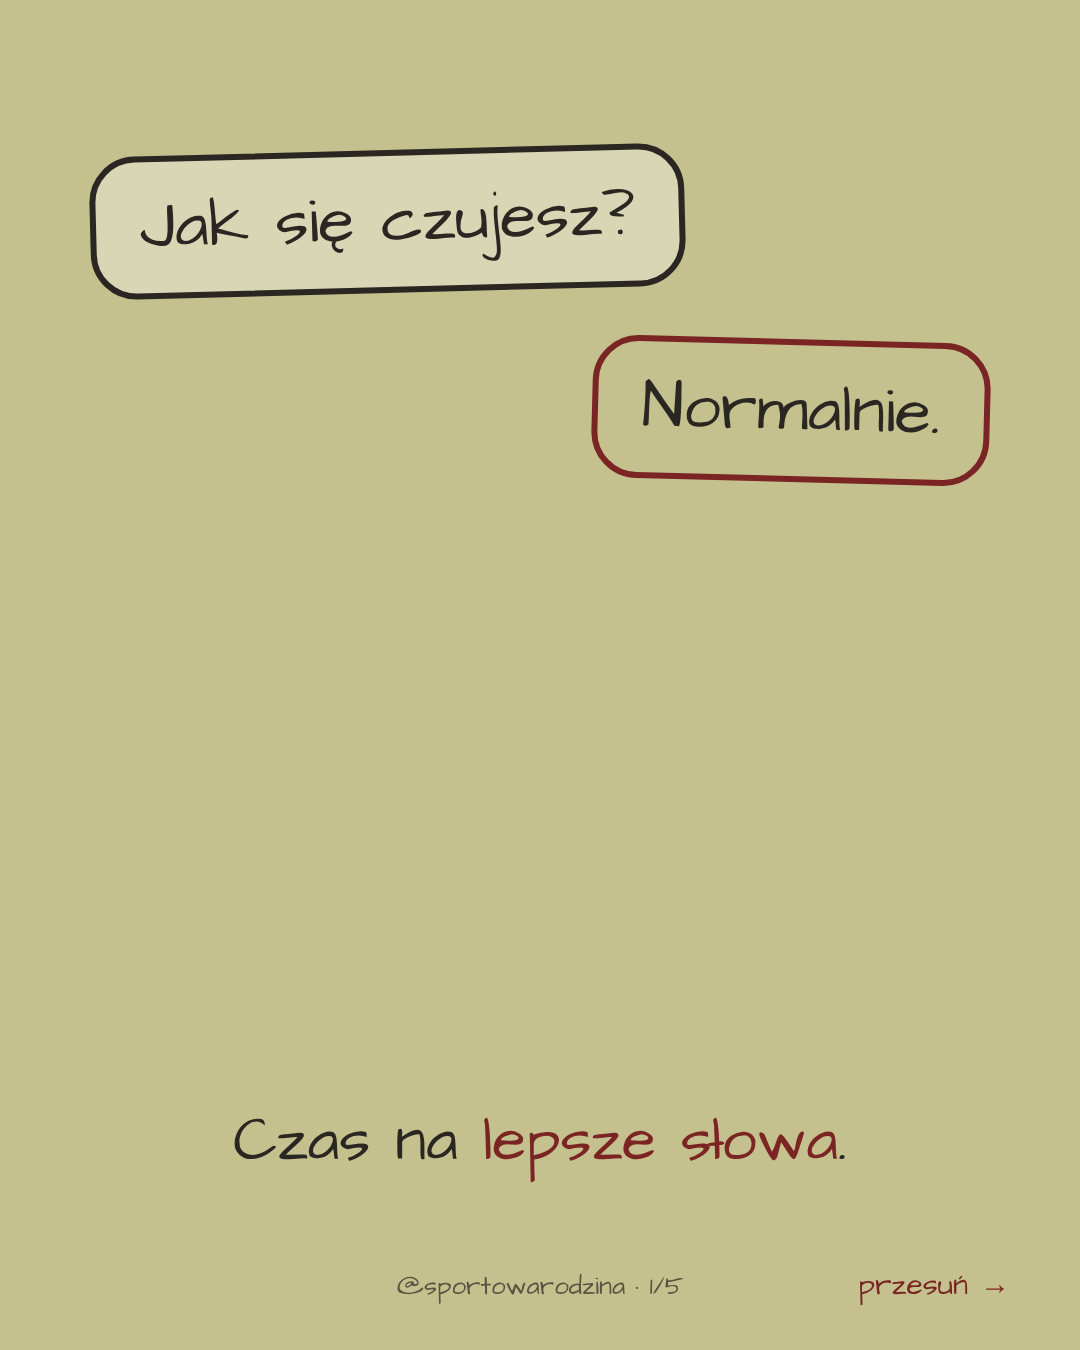
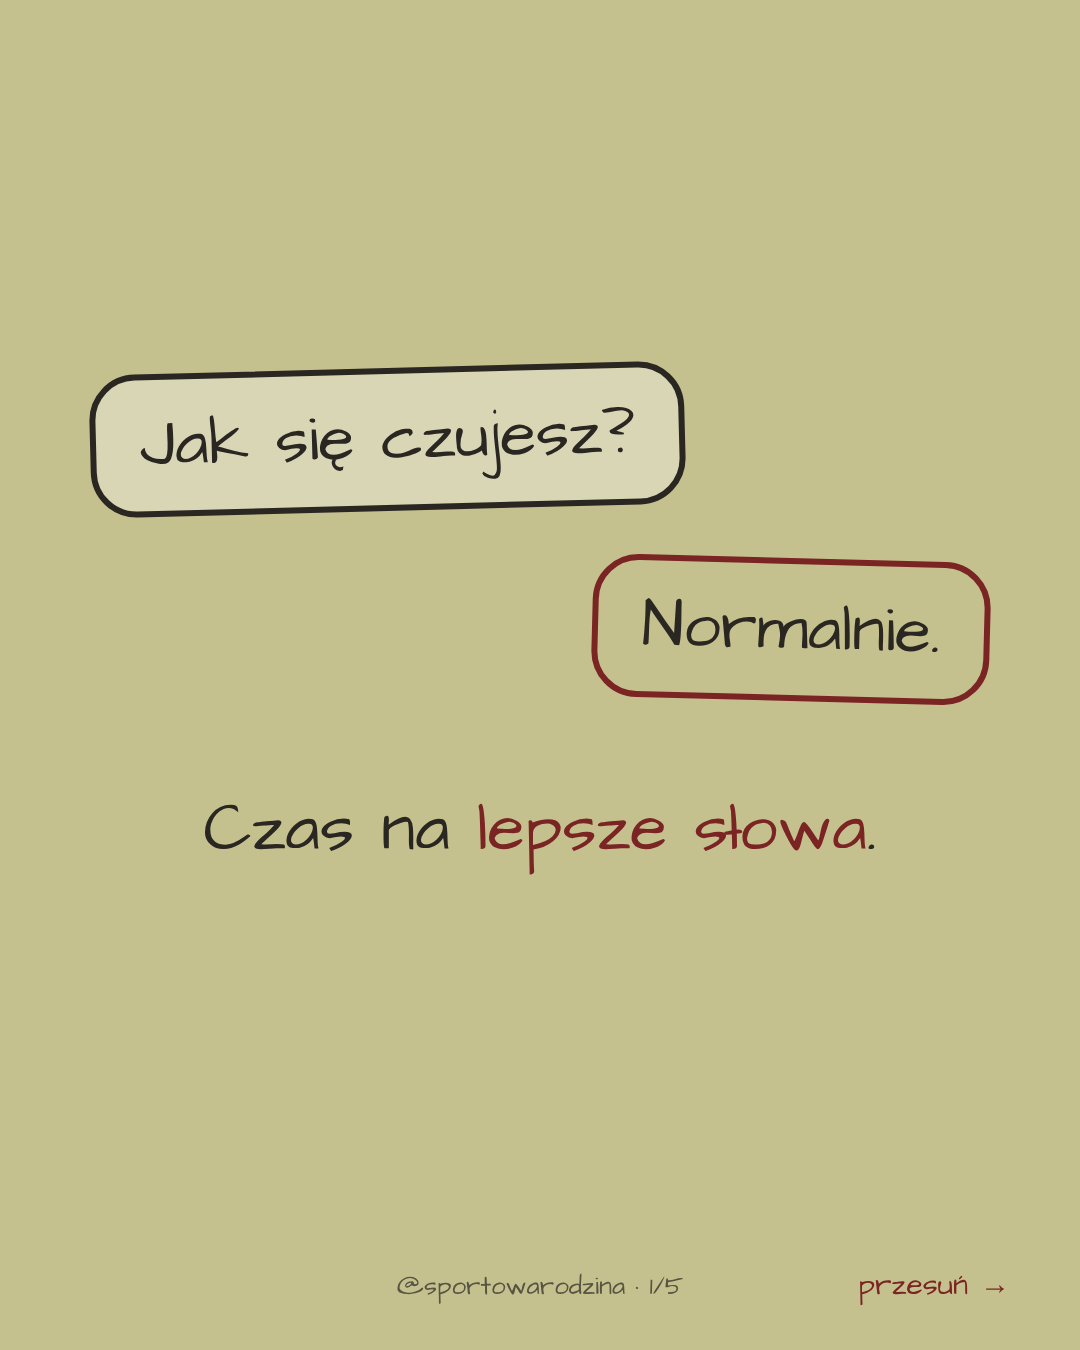
Rodzina: tighter text/symbol spacing, symbols matched to topics
Claude-Session: https://claude.ai/code/session_01A5PTvWpyS7iEo6fG2kmJPS

diff --git a/tools/family.js b/tools/family.js
@@ -18,23 +18,28 @@ const total = spec.slides.length;
 const foot = i => `<div class="c" style="bottom:46px;font-size:26px;opacity:.7">@sportowarodzina${total > 1 ? ' · ' + (i + 1) + '/' + total : ''}</div>`;
 const R = (d, w = 7, c) => `<path d="${d}" fill="none" stroke="${c || INK}" stroke-width="${w}" stroke-linecap="round" stroke-linejoin="round"/>`;
 const ICONS = {
+  hug: () => `<circle cx="120" cy="70" r="30" fill="none" stroke="${INK}" stroke-width="7"/>` + R('M120,100 C85,105 80,150 85,200 L90,270') + R('M120,100 C150,105 160,140 158,175') + R('M150,270 L152,215') +
+    `<circle cx="195" cy="130" r="24" fill="none" stroke="${ACC}" stroke-width="7"/>` + R('M195,154 C175,160 172,200 175,230 L178,270', 7, ACC) + R('M195,154 C215,160 222,195 220,230 L218,270', 7, ACC) +
+    R('M88,140 C120,175 170,185 215,165', 7) + R('M215,190 C190,182 172,170 160,150', 6, ACC),
+  growth: () => R('M150,30 L150,275', 7) + [250, 205, 160, 115, 72].map((y, k) => R(`M150,${y} L${k === 4 ? 225 : 190},${y}`, k === 4 ? 8 : 5, k === 4 ? ACC : INK)).join('') +
+    `<text x="200" y="208" font-family="AD" font-size="26" fill="${INK}">wrzesień</text><text x="235" y="80" font-family="AD" font-size="32" fill="${ACC}">dziś</text>` +
+    `<circle cx="95" cy="95" r="22" fill="none" stroke="${INK}" stroke-width="6"/>` + R('M95,117 L95,200 M95,140 L70,175 M95,140 L125,120 M95,200 L78,270 M95,200 L112,270', 6),
   heart: () => R('M150,250 C60,190 30,120 80,85 C120,58 150,95 150,110 C150,95 180,58 220,85 C270,120 240,190 150,250 Z', 8, ACC) + R('M95,110 C100,98 110,92 120,92', 5, ACC),
   ball: () => R('M150,60 C210,62 245,110 243,155 C240,210 195,248 148,246 C95,244 57,200 58,152 C60,100 100,60 150,60 Z') + R('M150,110 L185,135 L172,178 L128,178 L115,135 Z', 6) + R('M150,110 L150,62 M185,135 L238,128 M172,178 L200,232 M128,178 L100,232 M115,135 L62,128', 5),
   moon: () => R('M190,70 C130,80 100,140 120,195 C140,245 205,255 245,220 C190,225 150,180 160,130 C165,100 175,82 190,70 Z', 8, ACC) + `<text x="200" y="110" font-family="AD" font-size="54" fill="${INK}">z</text><text x="235" y="80" font-family="AD" font-size="40" fill="${INK}">z</text><text x="262" y="56" font-family="AD" font-size="30" fill="${INK}">z</text>`,
-  triangle: () => R('M150,60 L255,240 L45,240 Z', 5) + ['M150,60', 'M255,240', 'M45,240'].map((p, k) => `<circle cx="${[150, 255, 45][k]}" cy="${[60, 240, 240][k]}" r="${k === 0 ? 34 : 30}" fill="${BG}" stroke="${k === 0 ? ACC : INK}" stroke-width="7"/>`).join('') + `<text x="150" y="72" text-anchor="middle" font-family="AD" font-size="30" fill="${ACC}">dz</text><text x="255" y="251" text-anchor="middle" font-family="AD" font-size="26" fill="${INK}">tr</text><text x="45" y="251" text-anchor="middle" font-family="AD" font-size="26" fill="${INK}">r</text>`,
-  growth: () => R('M110,50 L110,260', 7) + [230, 190, 150, 110, 75].map((y, k) => R(`M110,${y} L${k === 4 ? 200 : 160},${y}`, k === 4 ? 8 : 5, k === 4 ? ACC : INK)).join('') + R('M215,65 L240,75 L215,85', 6, ACC),
+  triangle: () => R('M150,60 L255,240 L45,240 Z', 5) + ['M150,60', 'M255,240', 'M45,240'].map((p, k) => `<circle cx="${[150, 255, 45][k]}" cy="${[60, 240, 240][k]}" r="${k === 0 ? 34 : 30}" fill="${BG}" stroke="${k === 0 ? ACC : INK}" stroke-width="7"/>`).join('') + `<text x="150" y="18" text-anchor="middle" font-family="AD" font-size="30" fill="${ACC}">dziecko</text><text x="255" y="296" text-anchor="middle" font-family="AD" font-size="28" fill="${INK}">trener</text><text x="45" y="296" text-anchor="middle" font-family="AD" font-size="28" fill="${INK}">rodzic</text>`,
 };
-const doodle = (name, size = 330) => `<svg viewBox="0 0 300 300" width="${size}" height="${size}">${ICONS[name]()}</svg>`;
+const doodle = (name, size = 330) => `<svg viewBox="-20 -10 340 320" overflow="visible" width="${size}" height="${size}">${ICONS[name]()}</svg>`;
 function slide(s, i) {
   const swipe = total > 1 ? `<div style="position:absolute;right:70px;bottom:44px;font-size:30px" class="a">przesuń →</div>` : '';
   if (s.kind === 'cover' && s.layout === 'doodle') {
-    return `<div class="c" style="top:110px;font-size:${len(s.text) < 45 ? 84 : 72}px;line-height:1.25">${hl(s.text)}</div>
-      <div style="position:absolute;left:0;right:0;bottom:170px;display:flex;justify-content:center">${doodle(s.icon, 560)}</div>${swipe}${foot(i)}`;
+    return `<div class="c" style="top:0;bottom:110px;display:flex;flex-direction:column;align-items:center;justify-content:center;gap:40px">
+      <div style="font-size:${len(s.text) < 45 ? 84 : 72}px;line-height:1.25">${hl(s.text)}</div>${doodle(s.icon, 520)}</div>${swipe}${foot(i)}`;
   }
   if (s.kind === 'cover' && s.layout === 'bubble') {
     const b = s.bubbles.map((t, k) => `<div style="align-self:${k % 2 ? 'flex-end' : 'flex-start'};max-width:78%;border:6px solid ${k % 2 ? ACC : INK};border-radius:46px;padding:26px 44px;font-size:66px;line-height:1.2;background:${k % 2 ? 'transparent' : 'rgba(255,255,255,.35)'};transform:rotate(${k % 2 ? 1.5 : -1.5}deg)">${hl(t)}</div>`).join('');
-    return `<div style="position:absolute;left:90px;right:90px;top:150px;display:flex;flex-direction:column;gap:46px">${b}</div>
-      <div class="c" style="bottom:170px;font-size:62px;line-height:1.25">${hl(s.text)}</div>${swipe}${foot(i)}`;
+    return `<div style="position:absolute;left:90px;right:90px;top:0;bottom:110px;display:flex;flex-direction:column;justify-content:center;gap:46px">${b}
+      <div style="text-align:center;font-size:68px;line-height:1.25;margin-top:40px">${hl(s.text)}</div></div>${swipe}${foot(i)}`;
   }
   if (s.kind === 'cover' && s.layout === 'list') {
     const it = s.items.map((t, k) => `<div style="display:flex;gap:30px;align-items:center;margin:26px 0"><svg width="64" height="64" viewBox="0 0 64 64">${R('M8,10 L56,8 L58,56 L10,58 Z', 5)}${k < (s.checked || 0) ? R('M16,34 L28,46 L54,12', 7, ACC) : ''}</svg><span style="font-size:66px">${hl(t)}</span></div>`).join('');
